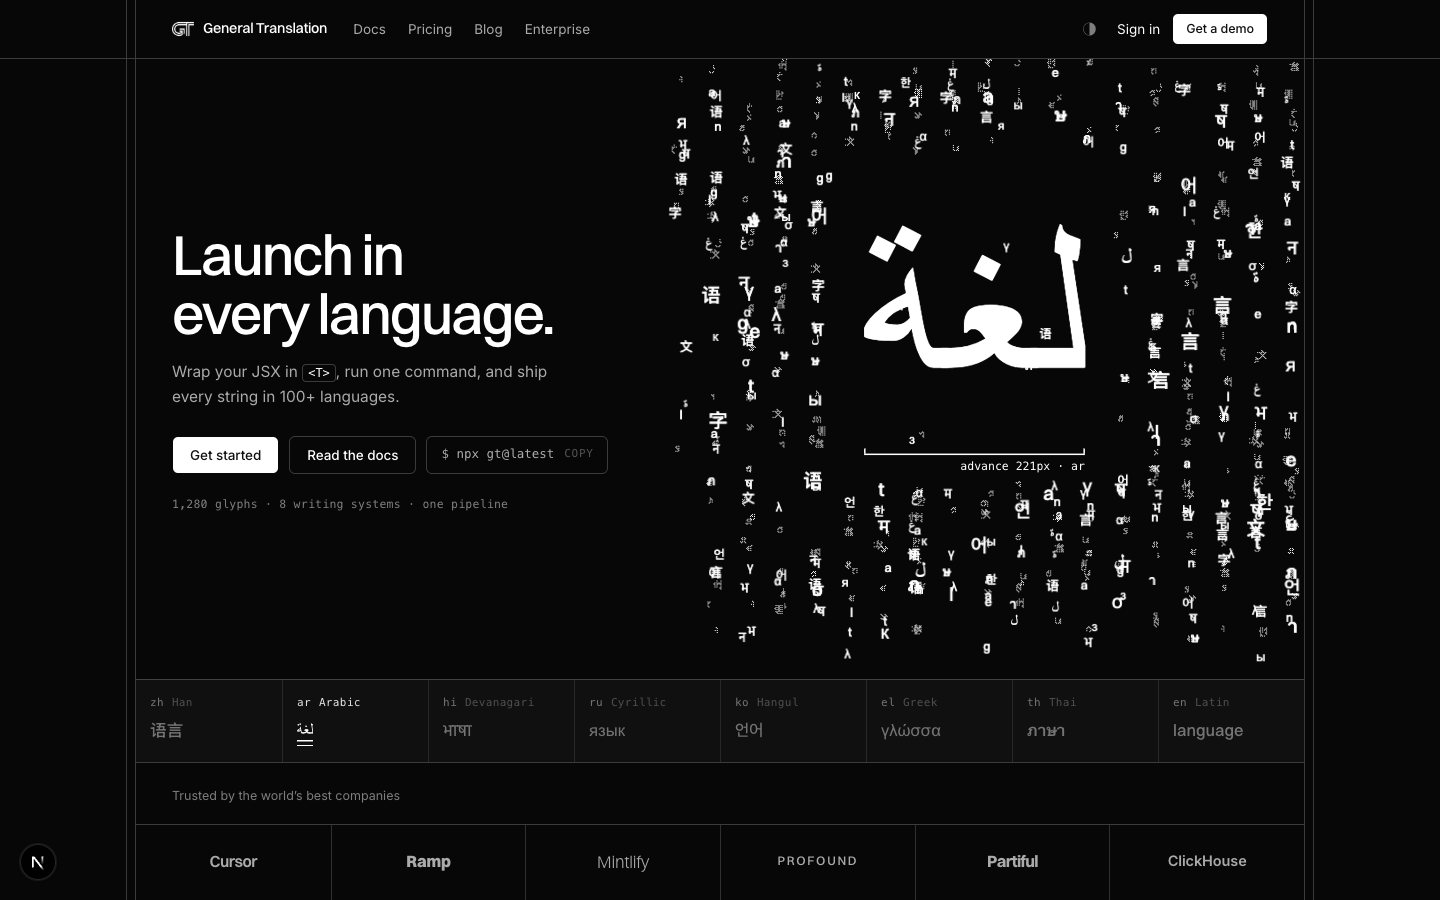
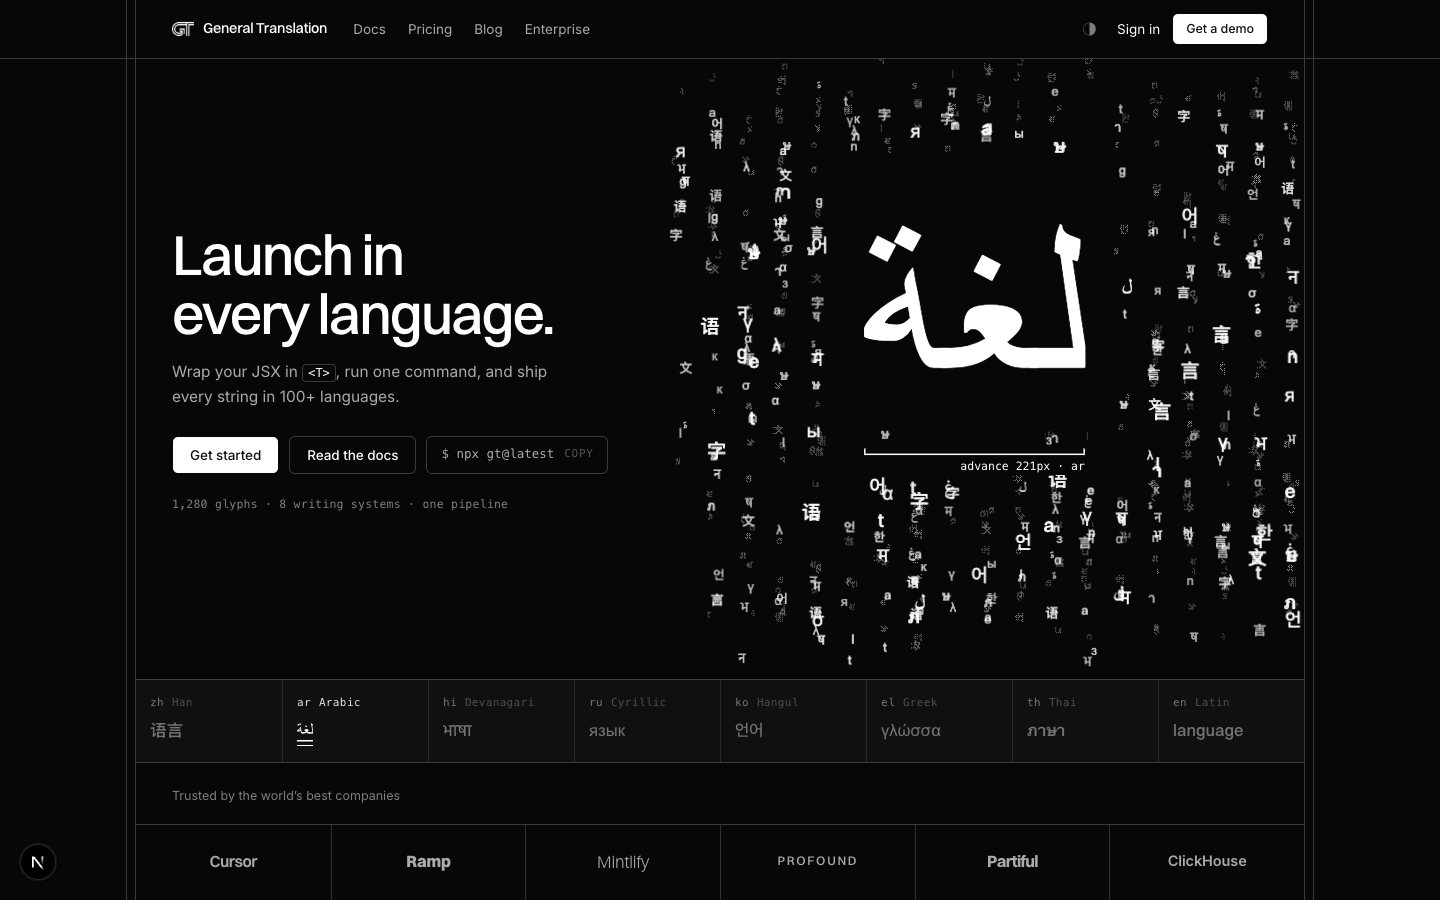
feat(glyph-field): depth-alpha fade, drop the orbiters, 4s linger
Far glyphs recede in alpha so overlaps separate by depth; the orbiter
ring is gone; each word lingers 4s before dissolving.

diff --git a/src/lib/glyph-field.ts b/src/lib/glyph-field.ts
@@ -14,23 +14,20 @@
  * Craft constraints, in order:
  * - One preallocated pool. Every per-particle number lives in a typed array
  *   allocated once at init; the frame loop allocates nothing.
- * - 1-bit material. The page's materials law allows greys only via dither,
- *   so depth is rendered as size + Bayer coverage: near glyphs are solid
- *   ink, mid and far glyphs are ordered-dithered ink at fixed coverages,
- *   thresholded once in the atlas. The frame loop never touches globalAlpha
- *   for the field — every mark is pure ink or absent.
+ * - Depth-faded material. Depth renders as size + Bayer coverage + an
+ *   alpha ramp: near glyphs are solid ink, far glyphs are dithered AND
+ *   faded, so overlapping glyphs separate by depth instead of colliding
+ *   at equal ink. Word material (the condensed row) always prints full.
  * - The rain is set in columns (a 34px pitch with small fixed jitter), so
  *   the field reads as composed typesetting, not static.
  * - The held word is typography, not particles: particles land, the word
- *   prints over them with a hard clip front, and they are absorbed. A small
- *   ring of orbiters keeps visibly condensing into the word through the
- *   hold, so any still carries the "field becomes the word" argument.
+ *   prints over them with a hard clip front, and they are absorbed.
  * - The type column, the held word's own paper, and the bottom seam above
  *   the script ledger are all dithered density falloffs (per-particle
  *   threshold) — no alpha veil ever sits behind content, and the field
  *   ends composed instead of running into the dark band.
- * - prefers-reduced-motion renders exactly one frame — the printed word,
- *   its caliper, and the frozen orbiters — and never starts the loop.
+ * - prefers-reduced-motion renders exactly one frame — the printed word
+ *   and its caliper — and never starts the loop.
  */
 
 export type ScriptSample = {
@@ -108,11 +105,11 @@ const INK = '#070707';
 /** The rain's column pitch: the field is set, not scattered. */
 const COL_PITCH = 34;
 
-/* The loop, in seconds: print, hold, peel, fly. Each formed word rests
-   long enough to be read — the caliper fades in, stands, and fades back
-   out — then the word dissolves, spreads, reorganizes and forms the next,
-   one continuous movement. */
-const HOLD = 2.6;
+/* The loop, in seconds: print, hold, peel, fly. Each formed word LINGERS —
+   the caliper fades in, stands for a beat, and fades back out — then the
+   word dissolves, spreads, reorganizes and forms the next, one continuous
+   movement. */
+const HOLD = 4.0;
 const MORPH = 2.4;
 const CYCLE = HOLD + MORPH;
 /**
@@ -120,7 +117,7 @@ const CYCLE = HOLD + MORPH;
  * with the word already printed and the caliper already in. (Reduced motion
  * still renders the printed word as a still.)
  */
-const FIRST_HOLD = 2.6;
+const FIRST_HOLD = 4.0;
 const FIRST_CYCLE = FIRST_HOLD + MORPH;
 /** The print front's sweep at the start of a hold. */
 const PRINT = 0.5;
@@ -128,9 +125,6 @@ const PRINT = 0.5;
 const PEEL = 0.7;
 /** Each particle's own flight time inside the morph. */
 const FLIGHT = MORPH - PEEL;
-
-/** Number of orbiters — glyphs visibly condensing into the held word. */
-const ORB = 10;
 
 /** Ordered 4×4 Bayer matrix for the atlas's 1-bit tiers. */
 const BAYER: readonly (readonly number[])[] = [
@@ -256,7 +250,6 @@ export function createGlyphField(options: GlyphFieldOptions): GlyphFieldHandle |
   const order = new Uint16Array(POOL); // draw order, far → near, sorted once
   const pick = new Uint16Array(POOL); // eligible indices, shuffled once
   const cand = new Uint16Array(POOL); // per-resample candidate order (dust first)
-  const slot = new Uint16Array(POOL); // sampled point k → particle index
 
   let eligibleCount = 0;
   for (let i = 0; i < POOL; i++) {
@@ -288,16 +281,6 @@ export function createGlyphField(options: GlyphFieldOptions): GlyphFieldHandle |
     const a = pick[i] ?? 0;
     pick[i] = pick[j] ?? 0;
     pick[j] = a;
-  }
-
-  /* Orbiters: fixed spawn geometry, one glyph each, cycling forever. */
-  const orbSeedA = new Float32Array(ORB);
-  const orbSeedR = new Float32Array(ORB);
-  const orbGlyph = new Uint16Array(ORB);
-  for (let j = 0; j < ORB; j++) {
-    orbSeedA[j] = rand();
-    orbSeedR[j] = rand();
-    orbGlyph[j] = Math.floor(rand() * GLYPHS.length);
   }
 
   /* ---------- layout ---------- */
@@ -531,7 +514,6 @@ export function createGlyphField(options: GlyphFieldOptions): GlyphFieldHandle |
       tx[p] = left + (pts[k * 2] ?? 0) - pad;
       ty[p] = baselineY + (pts[k * 2 + 1] ?? 0) - yb;
       inNext[p] = 1;
-      slot[k] = p;
     }
     sampledWord = wordIndex;
   }
@@ -819,6 +801,10 @@ export function createGlyphField(options: GlyphFieldOptions): GlyphFieldHandle |
 
         lastX[i] = x;
         lastY[i] = y;
+        /* Depth fade: farther glyphs recede in alpha as well as size, so
+           overlapping glyphs separate by depth instead of colliding at
+           equal ink. Word material always prints full. */
+        ctx.globalAlpha = row === COND_ROW ? 1 : 1 - 0.6 * (z[i] ?? 0);
         const ds = cs * (px / (row === COND_ROW ? CONDENSED_PX : TIER_SIZE[row] ?? 10));
         ctx.drawImage(
           atlas,
@@ -834,43 +820,10 @@ export function createGlyphField(options: GlyphFieldOptions): GlyphFieldHandle |
       }
     }
 
-    /* Orbiters: through the hold, a slow ring of glyphs keeps condensing
-       into the word — the argument stays visible in any still. They melt
-       into the fill on arrival (ink over ink). */
-    if (morph < 0 && ptCount > 0) {
-      for (let j = 0; j < ORB; j++) {
-        const f = (simT * 0.16 + j / ORB) % 1;
-        const kIdx = Math.min(ptCount - 1, Math.floor(((j + 0.5) * ptCount) / ORB));
-        const pi = slot[kIdx] ?? 0;
-        const tgx = tx[pi] ?? zoneCx;
-        const tgy = ty[pi] ?? baselineY;
-        /* Spawns bias above the word, so approach paths never cross the
-           caliper annotation beneath it. */
-        const ang = ((orbSeedA[j] ?? 0.5) - 0.5) * 1.4;
-        const r0 = maxFont * (1.4 + (orbSeedR[j] ?? 0.5) * 0.9);
-        const sx = tgx + Math.sin(ang) * r0;
-        let sy = tgy - Math.cos(ang) * r0 * 0.85;
-        sy = Math.max(narrow ? fadeA : 24, sy);
-        const e = easeInOutCubic(f);
-        const ox = sx + (tgx - sx) * e;
-        const oy = sy + (tgy - sy) * e;
-        ctx.drawImage(
-          atlas,
-          (orbGlyph[j] ?? 0) * cs * dpr,
-          COND_ROW * cs * dpr,
-          cs * dpr,
-          cs * dpr,
-          ox - cs / 2,
-          oy - cs / 2,
-          cs,
-          cs,
-        );
-      }
-    }
-
     /* The words themselves — real typography, machined contours. The
        incoming word prints in behind its front; the outgoing word peels
        away ahead of its own. Hard clip edges: ink or paper, never a fade. */
+    ctx.globalAlpha = 1;
     ctx.fillStyle = ink;
     ctx.textAlign = 'left';
     ctx.textBaseline = 'alphabetic';
